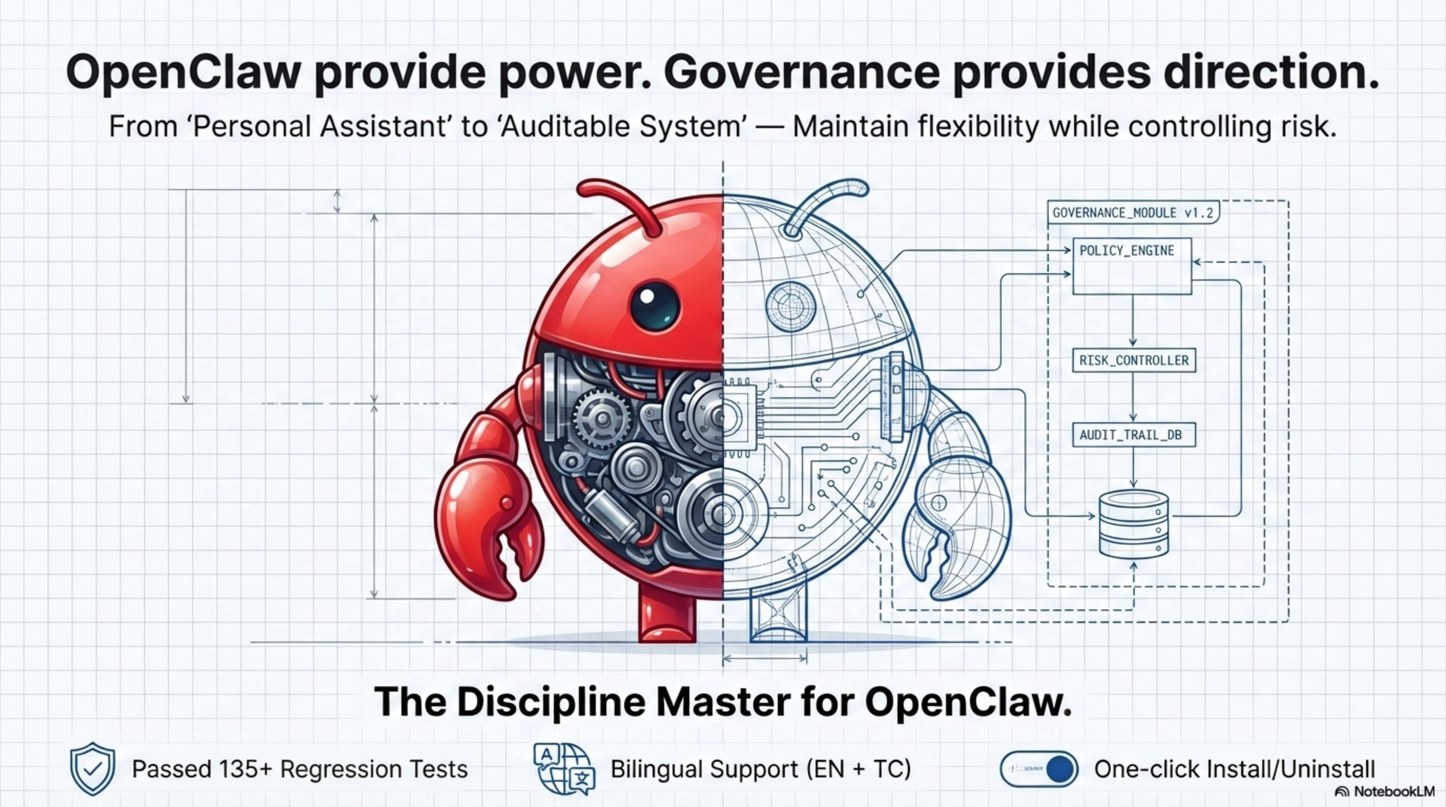
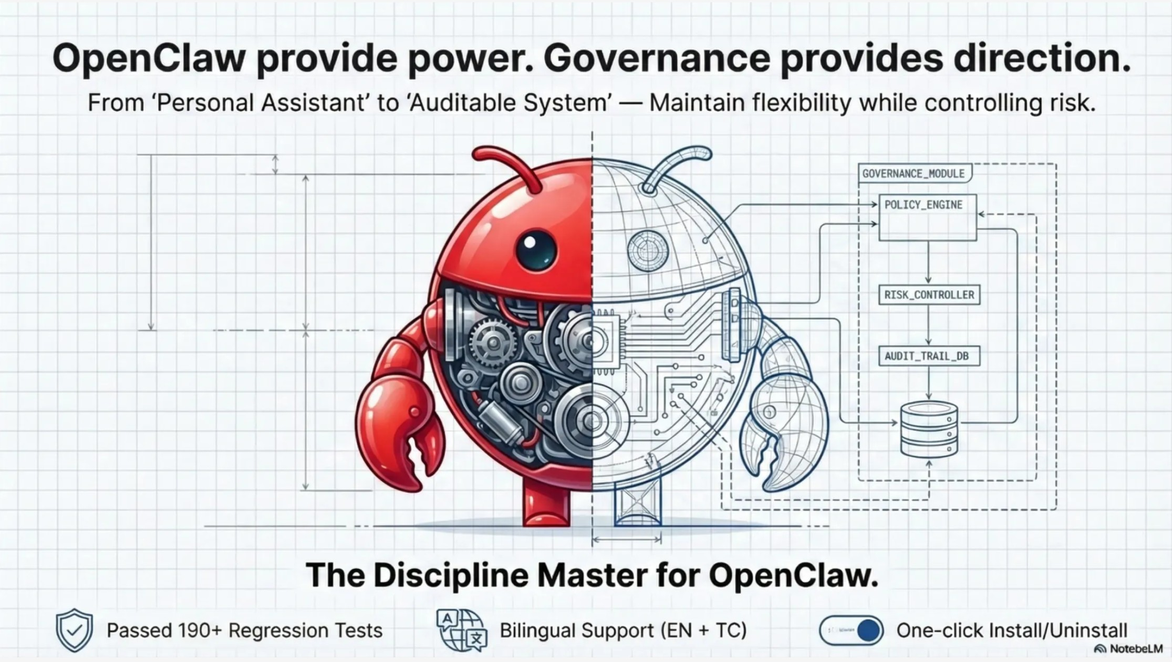
docs: add YouTube video intro to READMEs + update page_001.jpg
Add 🎬 Video Introduction / 影片介紹 section to both README.md and
README.zh-HK.md with clickable thumbnail linking to YouTube overview.
Update ref_doc/page_001.jpg with refreshed hero image.
Sync bootstrap embedded payload.

diff --git a/README.zh-HK.md b/README.zh-HK.md
@@ -12,6 +12,16 @@ ClawHub 安裝頁：
 
 ---
 
+## 🎬 影片介紹
+
+> **先看再讀** — 2 分鐘了解 Workspace Governance 做什麼、為什麼重要。
+
+[![Discipline Master for OpenClaw](./ref_doc/page_001.jpg)](https://youtu.be/zIXT8MiL4WY)
+
+▶ [觀看：Discipline Master for OpenClaw（Workspace Governance Plugin）](https://youtu.be/zIXT8MiL4WY)
+
+---
+
 ## 📋 Release Notes 最新 3 版重點報告板
 
 | 版本 | 發佈時間（UTC） | 關鍵變更 | 對使用者的直接影響 |

diff --git a/OpenClaw_INIT_BOOTSTRAP_WORKSPACE_GOVERNANCE.md b/OpenClaw_INIT_BOOTSTRAP_WORKSPACE_GOVERNANCE.md
@@ -279,6 +279,16 @@ ClawHub installer page:
 
 ---
 
+## 🎬 Video Introduction
+
+> **See it in action** — watch a 2-minute overview before reading the docs.
+
+[![Discipline Master for OpenClaw](./ref_doc/page_001.jpg)](https://youtu.be/zIXT8MiL4WY)
+
+▶ [Watch: Discipline Master for OpenClaw (Workspace Governance Plugin)](https://youtu.be/zIXT8MiL4WY)
+
+---
+
 ## 📋 Release Notes Board (Latest 3)
 
 | Version | Published (UTC) | Key Changes | Practical Impact |

diff --git a/README.md b/README.md
@@ -12,6 +12,16 @@ ClawHub installer page:
 
 ---
 
+## 🎬 Video Introduction
+
+> **See it in action** — watch a 2-minute overview before reading the docs.
+
+[![Discipline Master for OpenClaw](./ref_doc/page_001.jpg)](https://youtu.be/zIXT8MiL4WY)
+
+▶ [Watch: Discipline Master for OpenClaw (Workspace Governance Plugin)](https://youtu.be/zIXT8MiL4WY)
+
+---
+
 ## 📋 Release Notes Board (Latest 3)
 
 | Version | Published (UTC) | Key Changes | Practical Impact |
